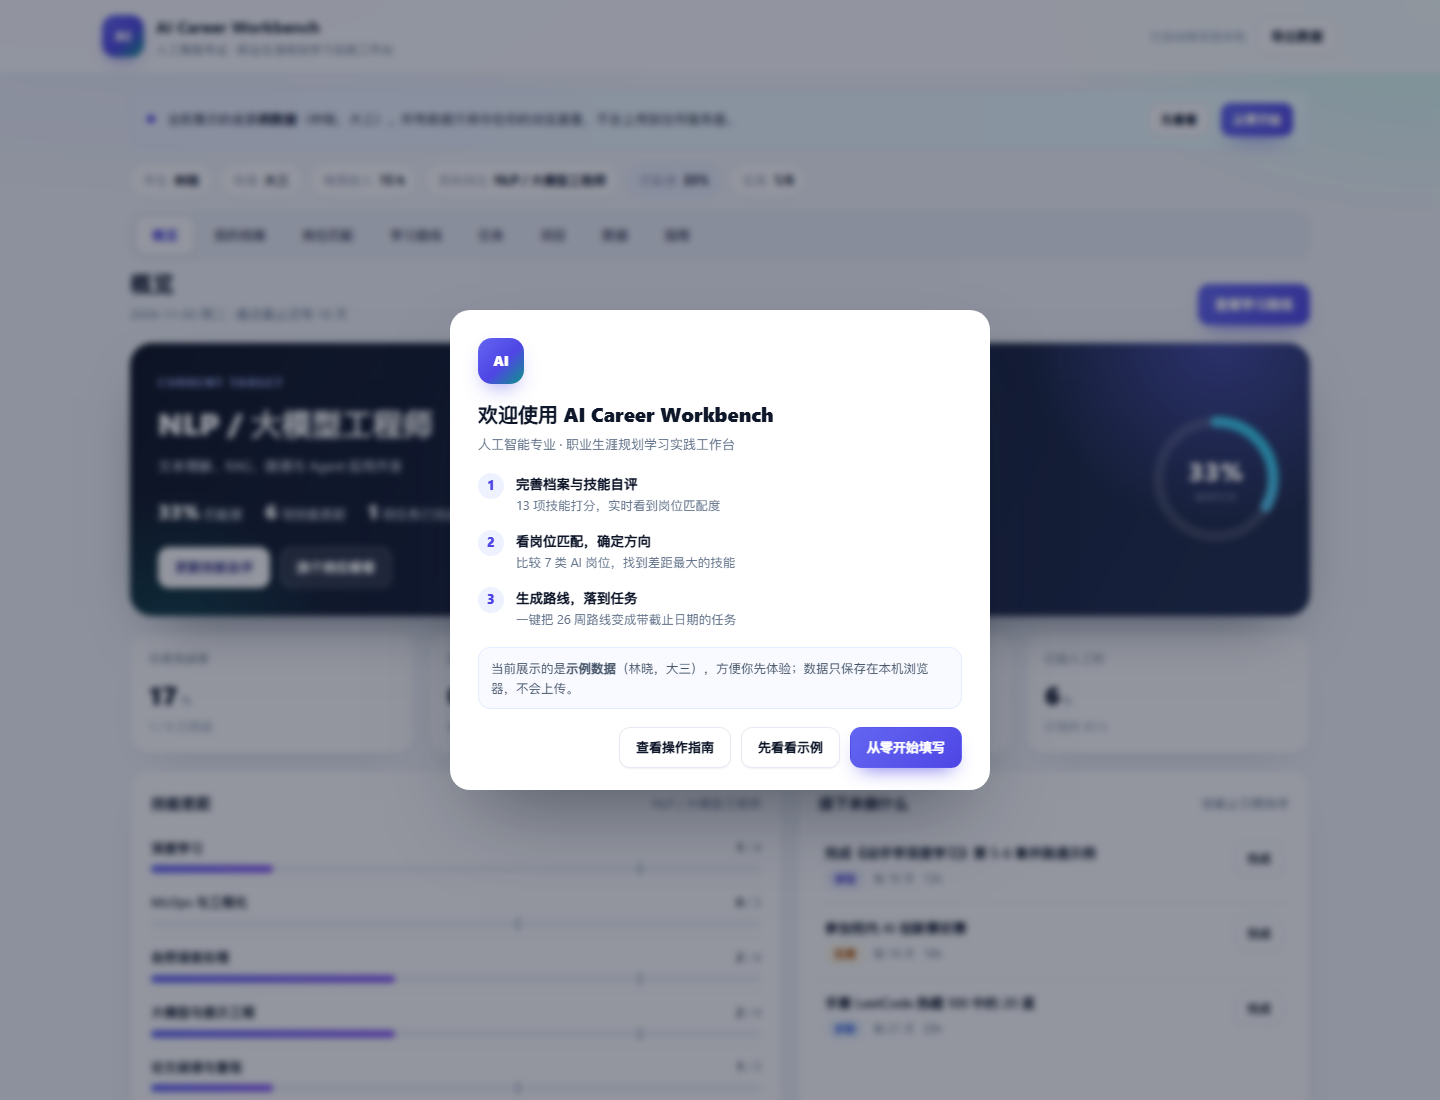
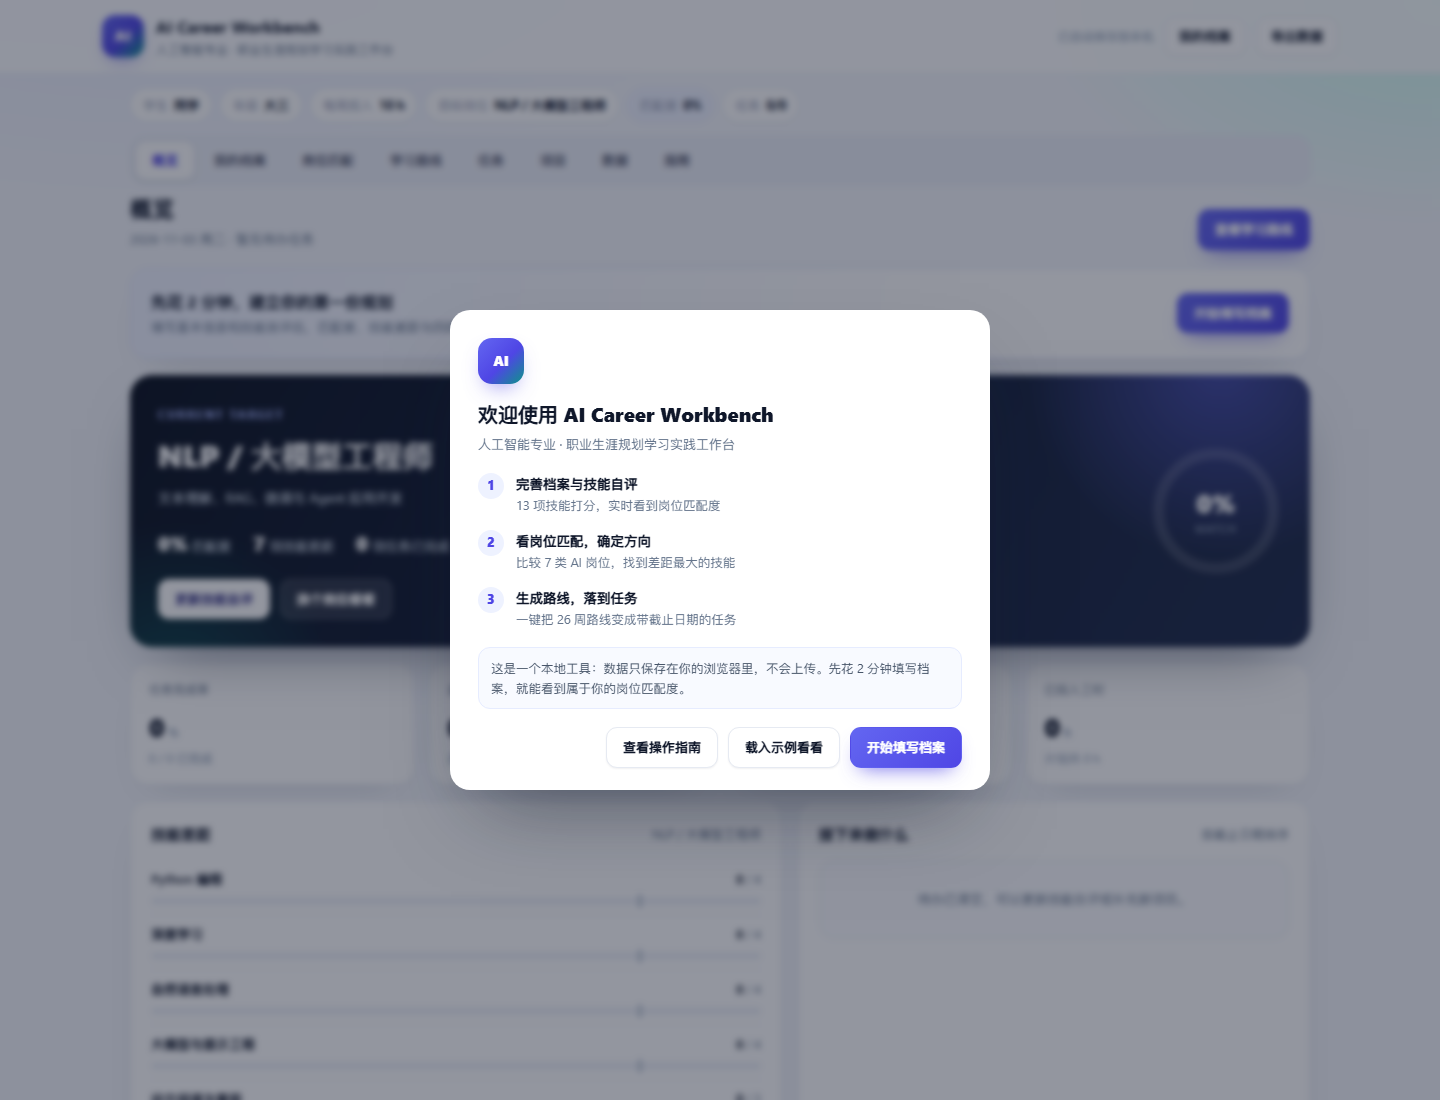
feat(web): 默认改为空白档案，示例改为手动载入
首次打开不再展示示例数据：loadState 无存档时返回空白档案；欢迎页改为「开始填写档案 / 载入示例看看 / 查看操作指南」；顶部新增「我的档案」按钮；空白概览增加引导卡片；同步更新使用指南、设计说明与测试记录。

diff --git a/index.html b/index.html
@@ -158,6 +158,12 @@ main{padding:22px 0 70px}
 .card-head .sub{font-size:12.5px; color:var(--muted)}
 .cols{display:grid; grid-template-columns:1.12fr .88fr; gap:16px; margin-top:16px}
 .stack{display:flex; flex-direction:column; gap:16px}
+.start-card{
+  display:flex; align-items:center; justify-content:space-between; gap:16px; margin-bottom:16px;
+  background:linear-gradient(100deg,#eef2ff 0%,#fff 65%); border-color:#dfe5ff;
+}
+.start-card h3{font-size:16px}
+.start-card p{color:var(--muted); font-size:12.8px; margin-top:3px}
 
 /* ---------- 进度条 ---------- */
 .bar{position:relative; height:8px; border-radius:999px; background:#eef1f7; overflow:visible}
@@ -360,6 +366,8 @@ table.tbl{width:100%; border-collapse:collapse; font-size:13px}
   .view-actions{width:100%; flex-wrap:wrap}
   .task-form{grid-template-columns:1fr 1fr}
   .task-form .btn{grid-column:1/-1}
+  .start-card{flex-direction:column; align-items:flex-start}
+  .start-card .btn{width:100%}
   .hero-meta{gap:14px}
   main{padding:18px 0 60px}
   .hero{flex-direction:column; align-items:flex-start; padding:22px}
@@ -383,6 +391,7 @@ table.tbl{width:100%; border-collapse:collapse; font-size:13px}
     </div>
     <div class="top-actions">
       <span class="save-state" id="saveState">已自动保存到本机</span>
+      <button class="btn ghost" data-action="tab" data-tab="profile">我的档案</button>
       <button class="btn ghost" data-action="export">导出数据</button>
     </div>
   </div>
@@ -537,7 +546,7 @@ function loadState(){
     const raw = localStorage.getItem(KEY);
     if (raw) return normalize(JSON.parse(raw));
   } catch (e) { /* 忽略损坏的本地数据 */ }
-  return sampleState();
+  return emptyState();
 }
 
 let state = loadState();
@@ -704,6 +713,8 @@ function viewOverview(){
   const s = stats();
   const todo = sortedTasks('todo').slice(0, 3);
   const stages = buildRoadmap(role);
+  const notStarted = !Object.values(state.skills).some(v => Number(v) > 0) &&
+                     !state.tasks.length && !state.projects.length;
 
   const gapHtml = gaps.length ? gaps.slice(0, 5).map(g => {
     const pct = Math.round(g.cur / 5 * 100);
@@ -738,6 +749,12 @@ function viewOverview(){
   return '<div class="view">' +
     '<div class="view-head"><div><h2>概览</h2><p>' + fmtDate(todayISO()) + ' · ' + nextDueText() + '</p></div>' +
     '<div class="view-actions"><button class="btn primary" data-action="tab" data-tab="roadmap">查看学习路线</button></div></div>' +
+
+    (notStarted
+      ? '<div class="card start-card"><div><h3>先花 2 分钟，建立你的第一份规划</h3>' +
+        '<p>填写基本信息和技能自评后，匹配度、技能差距与四阶段学习路线会自动生成。</p></div>' +
+        '<button class="btn primary" data-action="tab" data-tab="profile">开始填写档案</button></div>'
+      : '') +
 
     '<section class="hero"><div class="hero-body">' +
     '<span class="hero-tag">CURRENT TARGET</span>' +
@@ -1019,7 +1036,11 @@ function guideSeen(){ try { return localStorage.getItem(GUIDE_KEY) === '1'; } ca
 function markGuideSeen(){ try { localStorage.setItem(GUIDE_KEY, '1'); } catch (e) {} }
 
 function showWelcome(){
-  if (!state.demo || guideSeen()) return;
+  if (guideSeen()) return;
+  const demo = state.demo;
+  const note = demo
+    ? '当前展示的是 <b>示例数据</b>（林晓，大三），方便你先体验；数据只保存在本机浏览器，不会上传。'
+    : '这是一个本地工具：数据只保存在你的浏览器里，不会上传。先花 2 分钟填写档案，就能看到属于你的岗位匹配度。';
   $('#modalRoot').innerHTML = '<div class="overlay" data-action="close-welcome"><div class="modal" style="max-width:540px">' +
     '<div class="welcome">' +
     '<div class="welcome-logo">AI</div>' +
@@ -1030,11 +1051,11 @@ function showWelcome(){
     '<li><span class="n">2</span><div><b>看岗位匹配，确定方向</b><span>比较 7 类 AI 岗位，找到差距最大的技能</span></div></li>' +
     '<li><span class="n">3</span><div><b>生成路线，落到任务</b><span>一键把 26 周路线变成带截止日期的任务</span></div></li>' +
     '</ol>' +
-    '<div class="welcome-note">当前展示的是<b>示例数据</b>（林晓，大三），方便你先体验；数据只保存在本机浏览器，不会上传。</div>' +
+    '<div class="welcome-note">' + note + '</div>' +
     '<div class="welcome-actions">' +
     '<button class="btn ghost" data-action="welcome-guide">查看操作指南</button>' +
-    '<button class="btn ghost" data-action="close-welcome">先看看示例</button>' +
-    '<button class="btn primary" data-action="welcome-start">从零开始填写</button>' +
+    (demo ? '' : '<button class="btn ghost" data-action="welcome-sample">载入示例看看</button>') +
+    '<button class="btn primary" data-action="welcome-begin">' + (demo ? '从零开始填写' : '开始填写档案') + '</button>' +
     '</div></div></div></div>';
   document.body.style.overflow = 'hidden';
 }
@@ -1103,11 +1124,17 @@ document.addEventListener('click', e => {
   switch (action) {
     case 'close-welcome': markGuideSeen(); closeModal(); break;
     case 'welcome-guide': markGuideSeen(); closeModal(); setTab('guide'); break;
-    case 'welcome-start':
+    case 'welcome-begin':
       markGuideSeen();
-      state = emptyState();
-      save(); closeModal(); setTab('profile');
-      toast('已切换为空白档案，开始填写吧');
+      if (state.demo) { state = emptyState(); save(); }
+      closeModal(); setTab('profile');
+      toast('先填写基本信息，再给技能打分');
+      break;
+    case 'welcome-sample':
+      markGuideSeen();
+      state = sampleState(); save(); closeModal();
+      render(); setTab('overview');
+      toast('已载入示例数据，可随时在「数据」里清空');
       break;
     case 'tab': setTab(btn.dataset.tab); break;
     case 'go': setTab(btn.dataset.tab); break;

diff --git a/README.md b/README.md
@@ -55,10 +55,10 @@
 
 部署地址：**https://yumgingg.github.io/ai-career-workbench/**
 
-- 第一次打开会先弹出**欢迎页**：说明这是示例数据（林晓，大三），并给出三步用法；
-- 点「从零开始」清空示例、填写自己的档案；点「先看看示例」直接体验完整界面；
+- 第一次打开是**空白档案 + 欢迎页**，引导你填写自己的信息；示例数据不占默认，只在「数据 → 载入示例」里；
+- 顶部「我的档案」按钮、标签栏「我的档案」都能随时修改基本信息与技能自评；
 - 所有数据只保存在你当前浏览器的 `localStorage`，不会上传到任何服务器；换设备前用「数据 → 导出 JSON」备份；
-- **每个人的数据互相独立**：老师、同学打开同一链接时，看到的是各自浏览器里的数据，第一次打开都是示例，不会看到你的任务和项目。
+- **每个人的数据互相独立**：老师、同学打开同一链接时都是从空白开始，看不到你的任务和项目。
 
 不想用在线版也可以直接双击仓库根目录的 `index.html`，功能完全一样（无需服务器、无需联网）。
 详细操作见 [使用指南](docs/使用指南.md)，或页面里的「指南」标签。
@@ -152,7 +152,11 @@ g++ -std=c++17 -O2 -o zysygh src/zysygh.cpp
 
 ### 网页版
 
-| 概览 | 我的档案 |
+| 首次打开的欢迎页（空白档案） | 空白档案的概览 |
+| --- | --- |
+| ![欢迎页](screenshots/web-welcome.png) | ![空白概览](screenshots/web-blank.png) |
+
+| 概览（载入示例数据后） | 我的档案 |
 | --- | --- |
 | ![概览](screenshots/web-overview.png) | ![档案](screenshots/web-profile.png) |
 
@@ -164,9 +168,9 @@ g++ -std=c++17 -O2 -o zysygh src/zysygh.cpp
 | --- | --- |
 | ![任务](screenshots/web-tasks.png) | ![项目](screenshots/web-projects.png) |
 
-| 首次打开的欢迎页 | 操作指南 |
+| 操作指南 | 数据与备份 |
 | --- | --- |
-| ![欢迎页](screenshots/web-welcome.png) | ![操作指南](screenshots/web-guide.png) |
+| ![操作指南](screenshots/web-guide.png) | ![数据](screenshots/web-data.png) |
 
 ### 桌面版
 
@@ -207,17 +211,19 @@ ai-career-workbench/
 
 | 用例 | 操作 | 结果 |
 | --- | --- | --- |
-| 初始渲染 | 打开页面 | 示例数据正常显示，任务 6 项 |
+| 初始渲染 | 打开页面 | 空白档案正常显示，任务 0 项、技能 0 分 |
 | 生成路线任务 | 点击"一键生成阶段任务" | 6 → 18 项，提示"已生成 12 条任务" |
 | 重复生成 | 再次点击 | 仍为 18 项，无重复 |
 | 岗位详情 | 打开"数据科学家"详情 | 模态框正常，内容匹配 |
 | 新增任务 | 填写并提交表单 | 任务写入并出现在列表 |
 | 勾选完成 | 点击复选框 | 完成数 1 → 2，样式同步 |
 | 本地持久化 | 读取 localStorage | 19 项任务已保存，刷新不丢 |
-| 首次欢迎页 | 清空浏览器存储后打开 | 欢迎弹窗出现，含三步说明与示例数据提示 |
-| 欢迎页关闭 | 点「先看看示例」/「查看操作指南」 | 弹窗关闭，标记已读，跳转对应页面 |
+| 默认空白 | 清空浏览器存储后打开 | 欢迎弹窗 + 空白档案：0 任务、0 技能、姓名"同学"，无示例提示条 |
+| 欢迎页入口 | 点「开始填写档案」/「载入示例看看」/「查看操作指南」 | 分别进入档案页 / 载入示例 / 打开指南，标记已读 |
+| 空白引导 | 空白状态打开概览 | 显示"先花 2 分钟建立第一份规划"卡片，可一键去填写 |
+| 载入示例 | 数据页点「载入示例」 | 6 项任务、3 个项目，示例提示条出现 |
+| 从零开始 | 示例状态点「从零开始」 | 档案清空（0 任务、姓名"同学"），提示条隐藏，刷新后仍隐藏 |
 | 操作指南页 | 打开「指南」标签 | 三步开始、页面说明、评分标准、FAQ 完整显示 |
-| 从零开始 | 欢迎页点「从零开始填写」 | 档案清空（0 任务、姓名"同学"），示例提示条隐藏，刷新后仍隐藏 |
 | 布局对齐 | 1440 / 1280 / 390px 设备模拟 | 头部、标签、内容区左边界一致，无横向滚动 |
 
 测试中发现并修复的问题：

diff --git a/docs/测试记录.md b/docs/测试记录.md
@@ -40,20 +40,21 @@
 
 | 编号 | 测试项 | 操作 | 预期 | 实际 |
 | --- | --- | --- | --- | --- |
-| W01 | 初始渲染 | 打开页面 | 示例数据完整显示，任务 6 项 | 通过 |
-| W02 | 生成路线任务 | 点击"一键生成阶段任务" | 任务 6 → 18，提示生成 12 条 | 通过 |
+| W01 | 初始渲染 | 打开页面 | 空白档案完整显示，任务 0 项、技能 0 分 | 通过 |
+| W02 | 生成路线任务 | 载入示例后点击"一键生成阶段任务" | 任务 6 → 18，提示生成 12 条 | 通过 |
 | W03 | 重复生成 | 再次点击 | 仍为 18 条，无重复 | 通过 |
 | W04 | 岗位详情模态框 | 打开"数据科学家" | 表格与匹配度正常显示 | 通过 |
 | W05 | 新增任务 | 填写表单并提交 | 任务写入列表，状态持久化 | 通过 |
 | W06 | 勾选完成 | 点击复选框 | 完成数 +1，样式与统计同步 | 通过 |
 | W07 | 本地持久化 | 读取 localStorage | 19 项任务、档案、项目均在 | 通过 |
 | W08 | 响应式布局 | 1440 / 1280 / 390px 设备模拟 | `scrollWidth = 390 = innerWidth`，无横向滚动，卡片正常换行 | 通过 |
-| W09 | 首次欢迎页 | 清空浏览器存储后打开 | 欢迎弹窗出现，包含三步说明与"示例数据"提示 | 通过 |
-| W10 | 欢迎页交互 | 点「先看看示例」「查看操作指南」 | 弹窗关闭并写入已读标记，指南页正常跳转 | 通过 |
+| W09 | 默认空白档案 | 清空浏览器存储后打开 | 欢迎弹窗出现；档案为空白（0 任务、0 技能、姓名"同学"），无示例提示条 | 通过 |
+| W10 | 欢迎页入口 | 点「开始填写档案」「载入示例看看」「查看操作指南」 | 分别进入档案页、载入示例、打开指南，并写入已读标记 | 通过 |
 | W11 | 操作指南页 | 打开「指南」标签 | 三步开始、页面说明、评分标准、数据备份、FAQ 均正常渲染 | 通过 |
-| W12 | 从零开始 | 欢迎页点「从零开始填写」 | 切到空白档案（0 任务、姓名"同学"），示例提示条消失 | 通过 |
-| W13 | 刷新保持 | 重置后刷新页面 | 不再弹欢迎页，提示条仍隐藏，档案仍为空白 | 通过 |
-| W14 | 重新载入示例 | 数据页点「载入示例」 | 提示条重新出现，可再次关闭 | 通过 |
+| W12 | 空白引导 | 空白状态打开概览 | 显示"先花 2 分钟建立第一份规划"提示卡，顶部有「我的档案」按钮 | 通过 |
+| W13 | 载入示例 | 数据页点「载入示例」 | 任务 6 项、项目 3 个，示例提示条出现 | 通过 |
+| W14 | 从零开始 | 示例状态点「从零开始」 | 档案清空（0 任务、姓名"同学"），提示条消失且刷新后仍隐藏 | 通过 |
+| W15 | 载入示例后再重置 | 欢迎页点「载入示例看看」→ 数据 → 清空 | 可来回切换，状态与提示条一致 | 通过 |
 
 网页版测试中发现并修复：
 

diff --git a/docs/使用指南.md b/docs/使用指南.md
@@ -4,22 +4,25 @@
 
 ## 一、第一次打开会看到什么
 
-网页版第一次打开时会：
+网页版第一次打开时是**空白档案**：
 
-1. 弹出**欢迎页**，说明这是示例数据（林晓，大三）以及三步用法；
-2. 页面里是一份**完整的示例档案**，方便你先随便点点看效果；
-3. 顶部有一条提示条，写着"当前展示的是示例数据"。
+1. 弹出**欢迎页**，介绍三步用法；
+2. 页面里姓名是"同学"、13 项技能都是 0 分、没有任务和项目；
+3. 概览顶部有一张"先花 2 分钟，建立你的第一份规划"的提示卡。
 
-三种进入方式：
+进入方式：
 
 | 你的目的 | 操作 |
 | --- | --- |
-| 先体验 | 欢迎页点「先看看示例」，或提示条点「先看看」 |
-| 开始做自己的规划 | 欢迎页点「从零开始填写」，或提示条点「从零开始」 |
-| 看详细说明 | 欢迎页点「查看操作指南」，或顶部「指南」标签 |
+| 填写自己的档案 | 欢迎页「开始填写档案」/ 提示卡「开始填写档案」/ 顶部「我的档案」按钮 / 标签「我的档案」 |
+| 先看看完整效果 | 欢迎页「载入示例看看」，或「数据 → 载入示例」 |
+| 看详细说明 | 欢迎页「查看操作指南」，或顶部「指南」标签 |
 
-> 每个人的数据都只存在自己浏览器的 localStorage 里。老师、同学打开同一个链接时看到的是他们自己的
-> 浏览器数据（第一次打开就是示例），不会看到你的任务和项目；你修改示例也不会影响任何人。
+> 示例数据不会占默认：只有点了「载入示例」才会出现示例（林晓，大三）和顶部的提示条；
+> 点提示条上的「从零开始」即可恢复空白档案。
+
+> 每个人的数据都只存在自己浏览器的 localStorage 里。老师、同学打开同一个链接时看到的都是空白档案，
+> 不会看到你的任务和项目。
 
 ## 二、三步开始
 
@@ -83,7 +86,7 @@
 ## 六、常见问题
 
 **Q：老师打开链接会看到我的数据吗？**
-不会。每个人的浏览器各自存储，互不相通。老师第一次打开看到的是示例数据。
+不会。每个人的浏览器各自存储，互不相通。老师第一次打开看到的是空白档案，可以自己填写。
 
 **Q：匹配度为什么是 33%？**
 按目标岗位的技能权重和自评等级加权计算。把差距最大的几项技能分数提上去，匹配度会明显变化。

diff --git a/docs/设计说明.md b/docs/设计说明.md
@@ -265,15 +265,16 @@ state = {
 
 ### 8.5 首次访问与操作指南
 
-为了降低"老师打开链接不知道这是什么"的沟通成本，网页版做了两层引导：
+为了降低"老师打开链接不知道这是什么"的沟通成本，网页版做了三层引导，并把默认状态设为空白档案：
 
-1. **首次欢迎页**：仅当本地没有已读标记且当前是示例数据时弹出，说明这是示例、给出三步用法，
-   并提供「先看看示例 / 从零开始填写 / 查看操作指南」三个出口；选择后写入 `acw-guide-seen`，
-   后续不再打扰。
-2. **「指南」标签页**：常驻的操作指南，包含三步开始、每个页面的用途与使用频率、技能评分标准、
-   匹配度公式、数据备份方法和常见问题。
+1. **默认空白**：`loadState()` 在没有本地存档时返回 `emptyState()`，姓名"同学"、技能全 0、无任务与项目；
+   示例数据只在「数据 → 载入示例」里，不会干扰首次使用。
+2. **首次欢迎页**：本地没有已读标记时弹出，说明这是本地工具、给出三步用法；
+   空白态提供「载入示例看看 / 开始填写档案 / 查看操作指南」，选择后写入 `acw-guide-seen`，后续不再打扰。
+3. **常驻入口与指南**：顶部固定一个「我的档案」按钮；空白档案的概览页显示"先花 2 分钟建立第一份规划"
+   提示卡；「指南」标签页提供三步开始、页面用途、评分标准、匹配度公式、数据备份与常见问题。
 
-两层引导都强调"数据只存在本机浏览器、每个人互相独立"，避免把示例数据误认为提交者的真实数据。
+所有引导都强调"数据只存在本机浏览器、每个人互相独立"，老师打开链接时看到的是空白档案而不是示例。
 
 ### 8.6 部署
 
